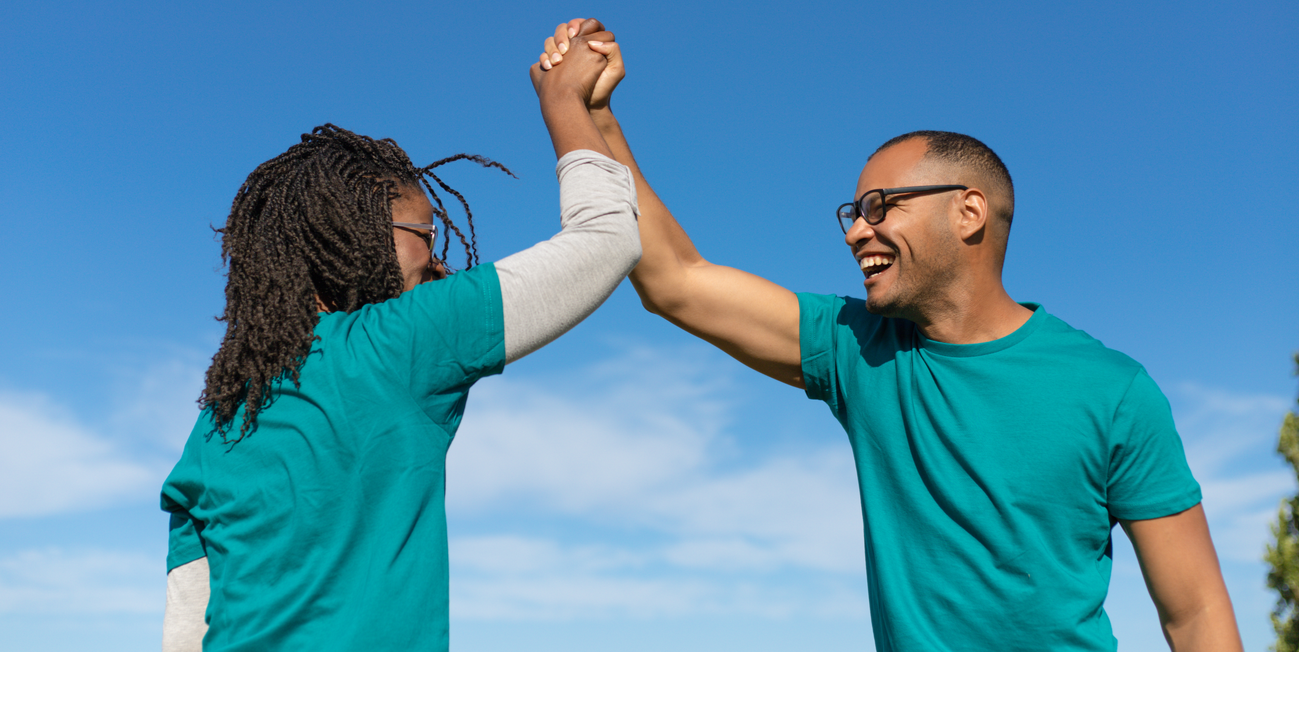
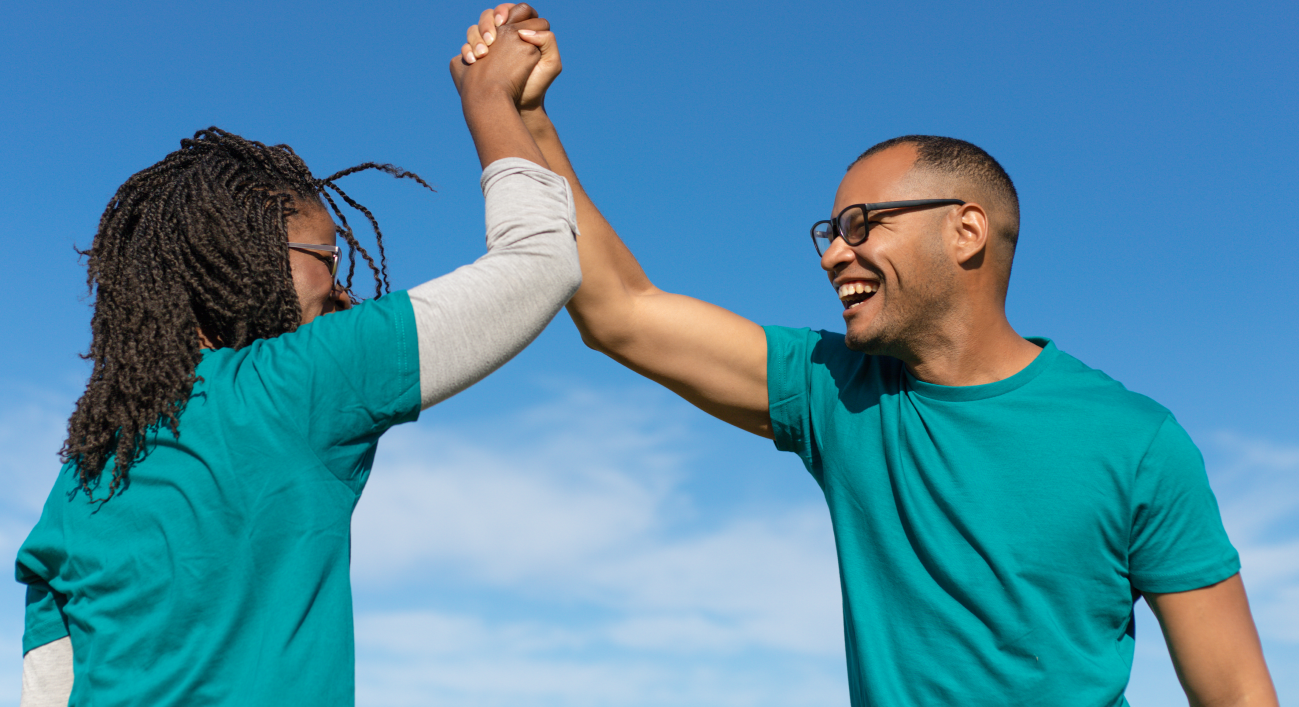
Sponsor a child single

diff --git a/sponsor-a-child-single.html b/sponsor-a-child-single.html
@@ -110,7 +110,7 @@
                     <div class="col-lg-5 col-md-12 col-12">
                         <div class="wpo-about-wrap">
                             <div class="wpo-about-img">
-                                <img src="assets/images/about/about6.jpg" alt="">
+                                <img src="assets/images/sponsor-a-child/sponsor-4.png" alt="">
                             </div>
                         </div>
                     </div>
